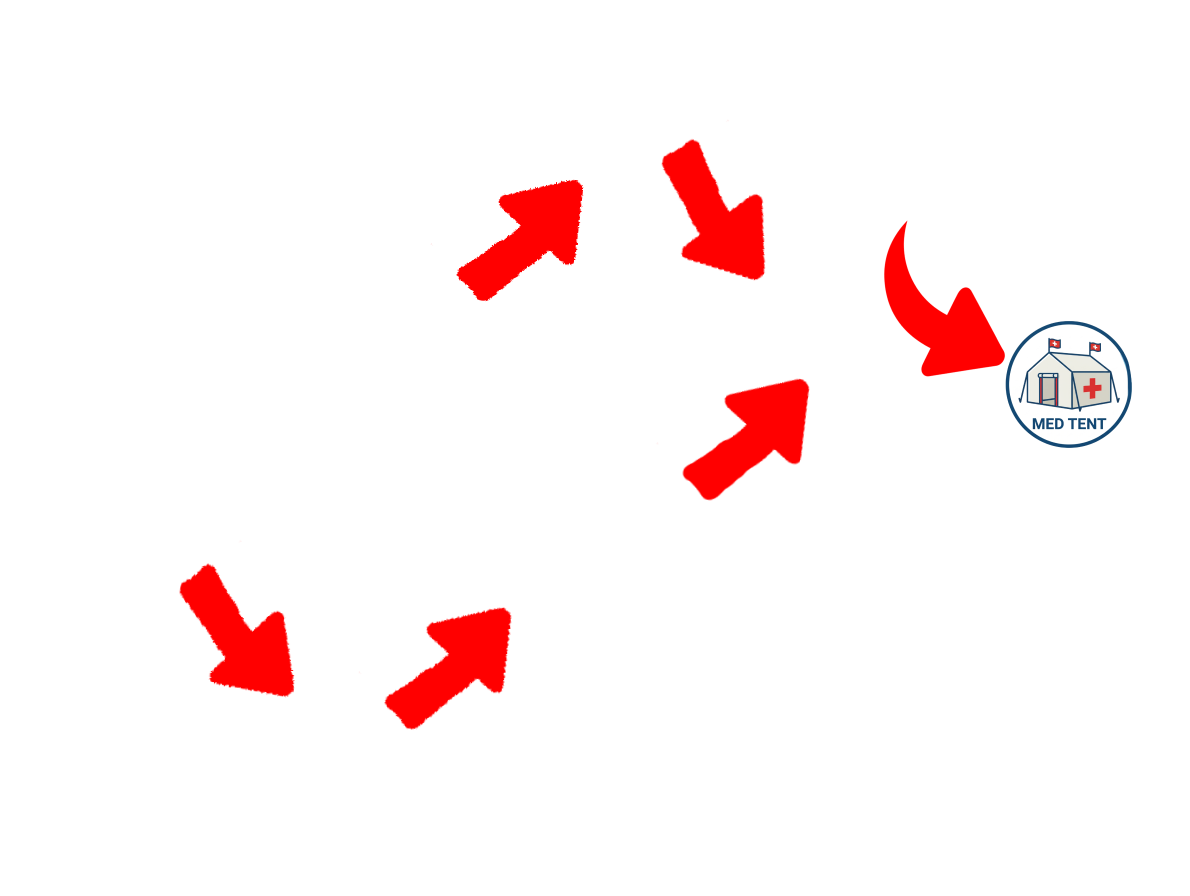
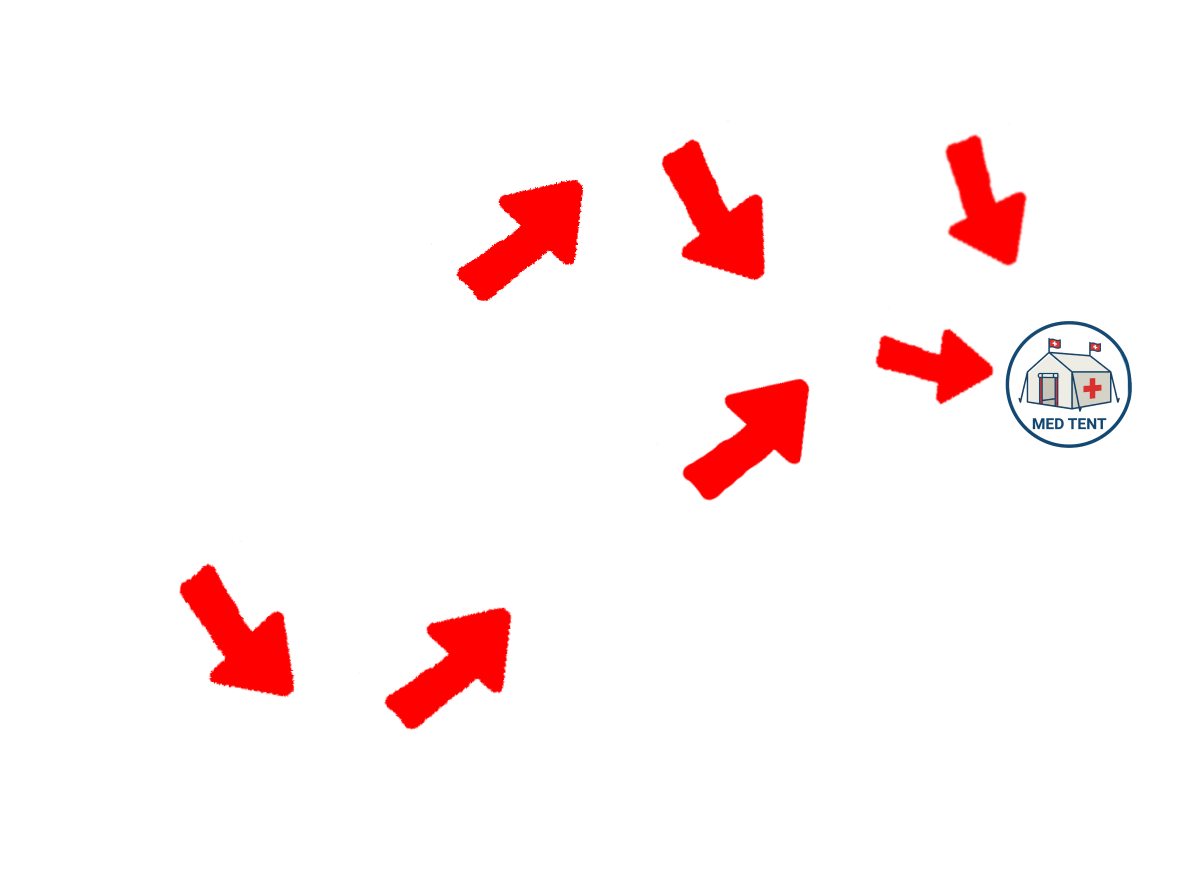
overlays on top of people markers

Changed region(s): [[0.7151, 0.1562, 0.8706, 0.4688]]

diff --git a/herd-search-vite/src/App.tsx b/herd-search-vite/src/App.tsx
@@ -3379,7 +3379,7 @@ export default function App() {
                   width: '100%',
                   height: '100%',
                   pointerEvents: 'none',
-                  zIndex: 1,
+                  zIndex: 10,
                   borderRadius: 'inherit'
                 }}
               />
@@ -3395,7 +3395,7 @@ export default function App() {
                   width: '100%',
                   height: '100%',
                   pointerEvents: 'none',
-                  zIndex: 1,
+                  zIndex: 10,
                   borderRadius: 'inherit'
                 }}
               />
